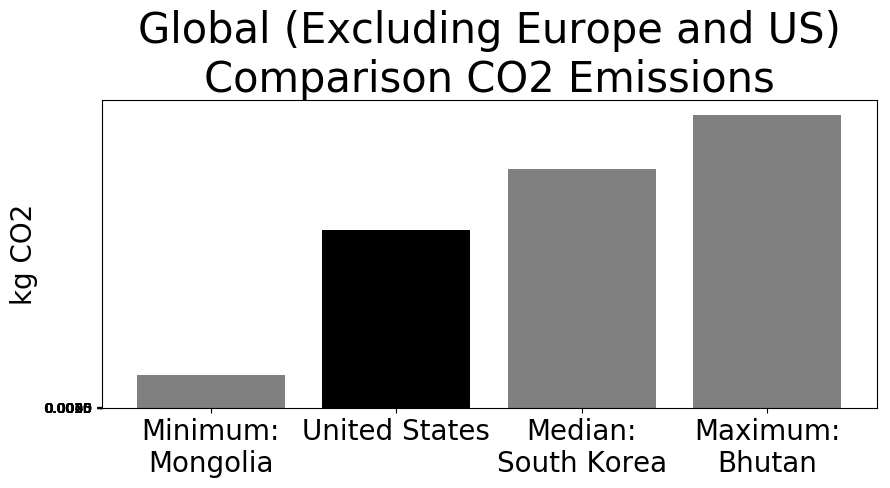
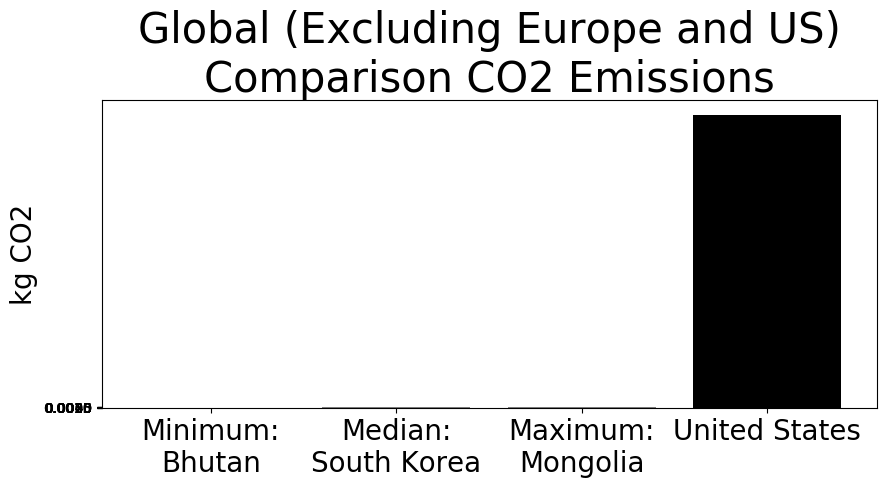
checking png

Changed region(s): [[0.3337, 0.2152, 0.9708, 0.9836], [0.1517, 0.7684, 0.3337, 0.8607], [0.1517, 0.9221, 0.3034, 0.9836]]

diff --git a/energyusage/evaluate.py b/energyusage/evaluate.py
@@ -312,9 +312,9 @@ def png_bar_chart(location, emission, default_emissions):
         emission_decimal = (default_emissions[i])[1]
         rounded_emission = round(emission_decimal, 2)
         default_emissions_list.append(rounded_emission)
-    global_dict = {"Bhutan" : default_emissions_list[0], "South Korea" : default_emissions_list[1], "Mongolia" : default_emissions_list[2]}
-    eu_dict = {"KosovoIceland" : default_emissions_list[3], "Ukraine" : default_emissions_list[4], "Kosovo" : default_emissions_list[5]}
-    us_dict = {"Vermont" : default_emissions_list[6], "Mississippi" : default_emissions_list[7], "Wyoming" : default_emissions_list[8]}
+    global_dict = {"Mongolia" : 4.23e-03, "South Korea" : 3.45e-03, "Bhutan" : 4.81e-04}
+    eu_dict = {"Kosovo" : 4.32e-03, "Ukraine" : 3.02e-03, "Iceland" : 7.77e-04}
+    us_dict = {"Wyoming" : 4.21e-03, "Mississippi" : 1.95e-03, "Vermont" : 1.18e-04}
     graph.make_comparison_bar_charts(location, emission, us_dict, eu_dict, global_dict)
 
 def evaluate(user_func, *args, pdf=False, png = False, powerLoss=0.8, energyOutput=False, \
